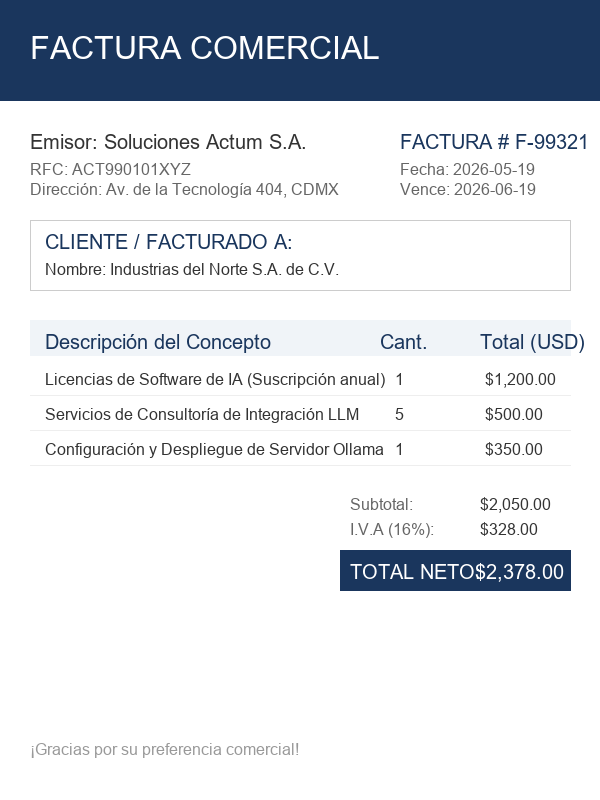
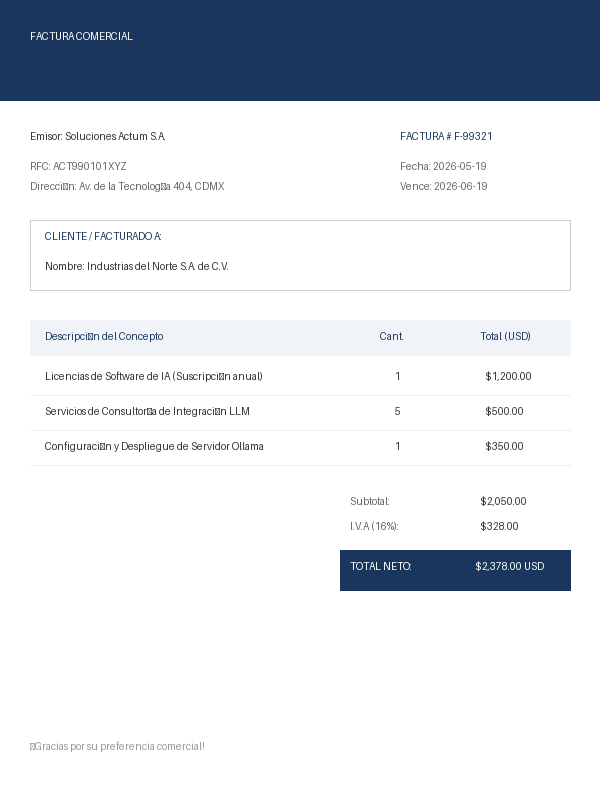
fix(modulo-01): anchor relative paths in mock data pipeline
generate_mock_data.py wrote data/dataset.json and data/images/* relative
to the process cwd instead of Proyecto_01's own location, and
dataset.json embedded those same relative paths for tests to read
back. Running pytest from a different cwd (e.g. docs/Modulo 01, which
Reto_03_pytest.ipynb sets as its working directory) duplicated data/
outside Proyecto_01 instead of reusing the existing mock data.

Anchor both the write location (generate_mock_data.py) and the read
location (conftest.py's dataset_content fixture) to the file's own
directory via __file__, and store absolute paths inside dataset.json
so downstream consumers work regardless of invocation cwd.

diff --git a/docs/Modulo 01/Proyecto_01/generate_mock_data.py b/docs/Modulo 01/Proyecto_01/generate_mock_data.py
@@ -2,6 +2,8 @@ import os
 import json
 from PIL import Image, ImageDraw, ImageFont
 
+BASE_DIR = os.path.dirname(os.path.abspath(__file__))
+
 def get_font(font_name="arial.ttf", size=16):
     """
     Carga una fuente TrueType estándar de Windows si está disponible,
@@ -203,14 +205,19 @@ def create_logo_image(path):
     print(f"Imagen de LOGO creada en: {path}")
 
 def main():
-    # Crear carpetas de datos
-    os.makedirs("data/images", exist_ok=True)
-    
+    # Crear carpetas de datos (ancladas a la ubicación de este script, no al cwd)
+    images_dir = os.path.join(BASE_DIR, "data", "images")
+    os.makedirs(images_dir, exist_ok=True)
+
+    factura_path = os.path.join(images_dir, "factura.png")
+    ticket_path = os.path.join(images_dir, "ticket.png")
+    logo_path = os.path.join(images_dir, "logo.png")
+
     # Crear imágenes mock
-    create_factura_image("data/images/factura.png")
-    create_ticket_image("data/images/ticket.png")
-    create_logo_image("data/images/logo.png")
-    
+    create_factura_image(factura_path)
+    create_ticket_image(ticket_path)
+    create_logo_image(logo_path)
+
     # Crear dataset.json
     dataset = {
         "text_tests": [
@@ -233,26 +240,27 @@ def main():
         ],
         "image_tests": [
             {
-                "path": "data/images/factura.png",
+                "path": factura_path,
                 "expected_category": "Factura",
                 "description_keywords": ["factura", "emisor", "soluciones", "comercial", "total", "neto"]
             },
             {
-                "path": "data/images/ticket.png",
+                "path": ticket_path,
                 "expected_category": "Ticket",
                 "description_keywords": ["ticket", "supermercado", "caja", "cajero", "compra", "total"]
             },
             {
-                "path": "data/images/logo.png",
+                "path": logo_path,
                 "expected_category": "Logo",
                 "description_keywords": ["logo", "actum", "logos", "polígono", "triángulo", "tecnología"]
             }
         ]
     }
-    
-    with open("data/dataset.json", "w", encoding="utf-8") as f:
+
+    dataset_path = os.path.join(BASE_DIR, "data", "dataset.json")
+    with open(dataset_path, "w", encoding="utf-8") as f:
         json.dump(dataset, f, indent=2, ensure_ascii=False)
-    print("Archivo 'data/dataset.json' creado exitosamente.")
+    print(f"Archivo '{dataset_path}' creado exitosamente.")
 
 if __name__ == "__main__":
     main()

diff --git a/docs/Modulo 01/Proyecto_01/tests/conftest.py b/docs/Modulo 01/Proyecto_01/tests/conftest.py
@@ -3,8 +3,9 @@ import sys
 import json
 import pytest
 
-# Asegurar que el directorio raíz esté en el path para poder importar los módulos locales
-sys.path.insert(0, os.path.abspath(os.path.join(os.path.dirname(__file__), '..')))
+# Anclado al directorio del proyecto (no al cwd del proceso que invoca pytest)
+PROJECT_ROOT = os.path.abspath(os.path.join(os.path.dirname(__file__), '..'))
+sys.path.insert(0, PROJECT_ROOT)
 
 import generate_mock_data
 from agent import DataClassifierAgent
@@ -25,7 +26,7 @@ def dataset_content():
     """
     Fixture que lee y retorna el contenido estructurado del dataset de prueba.
     """
-    dataset_path = os.path.join("data", "dataset.json")
+    dataset_path = os.path.join(PROJECT_ROOT, "data", "dataset.json")
     with open(dataset_path, "r", encoding="utf-8") as f:
         return json.load(f)
 
